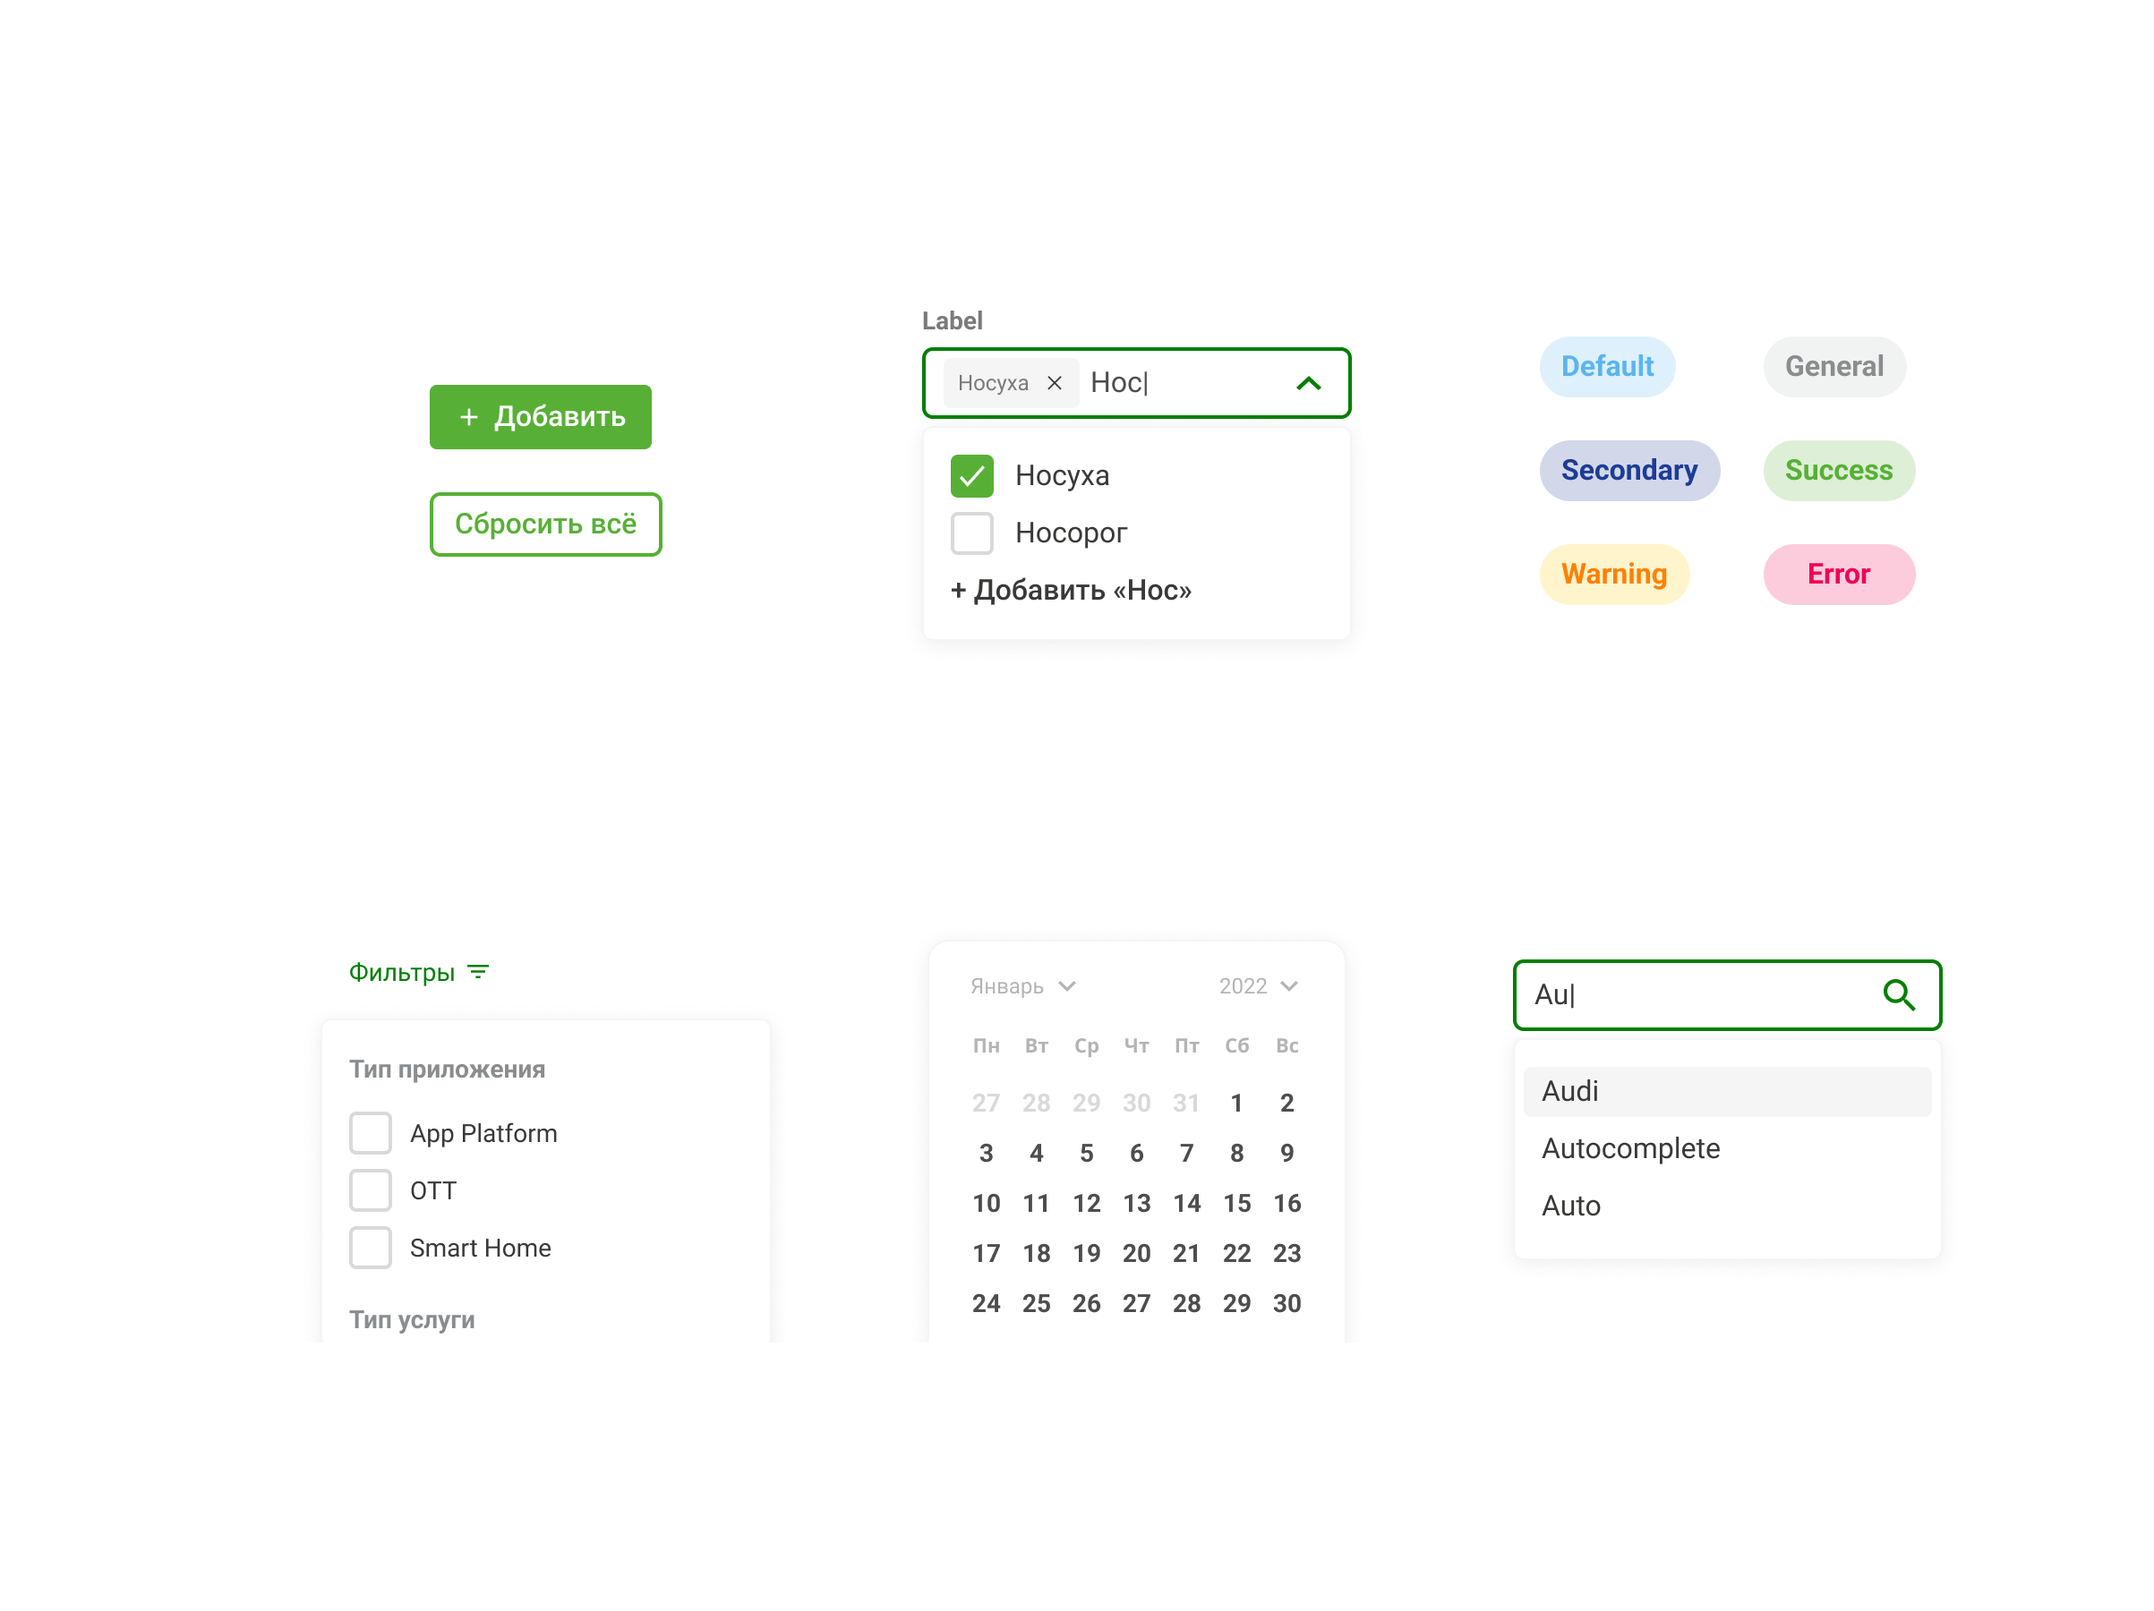
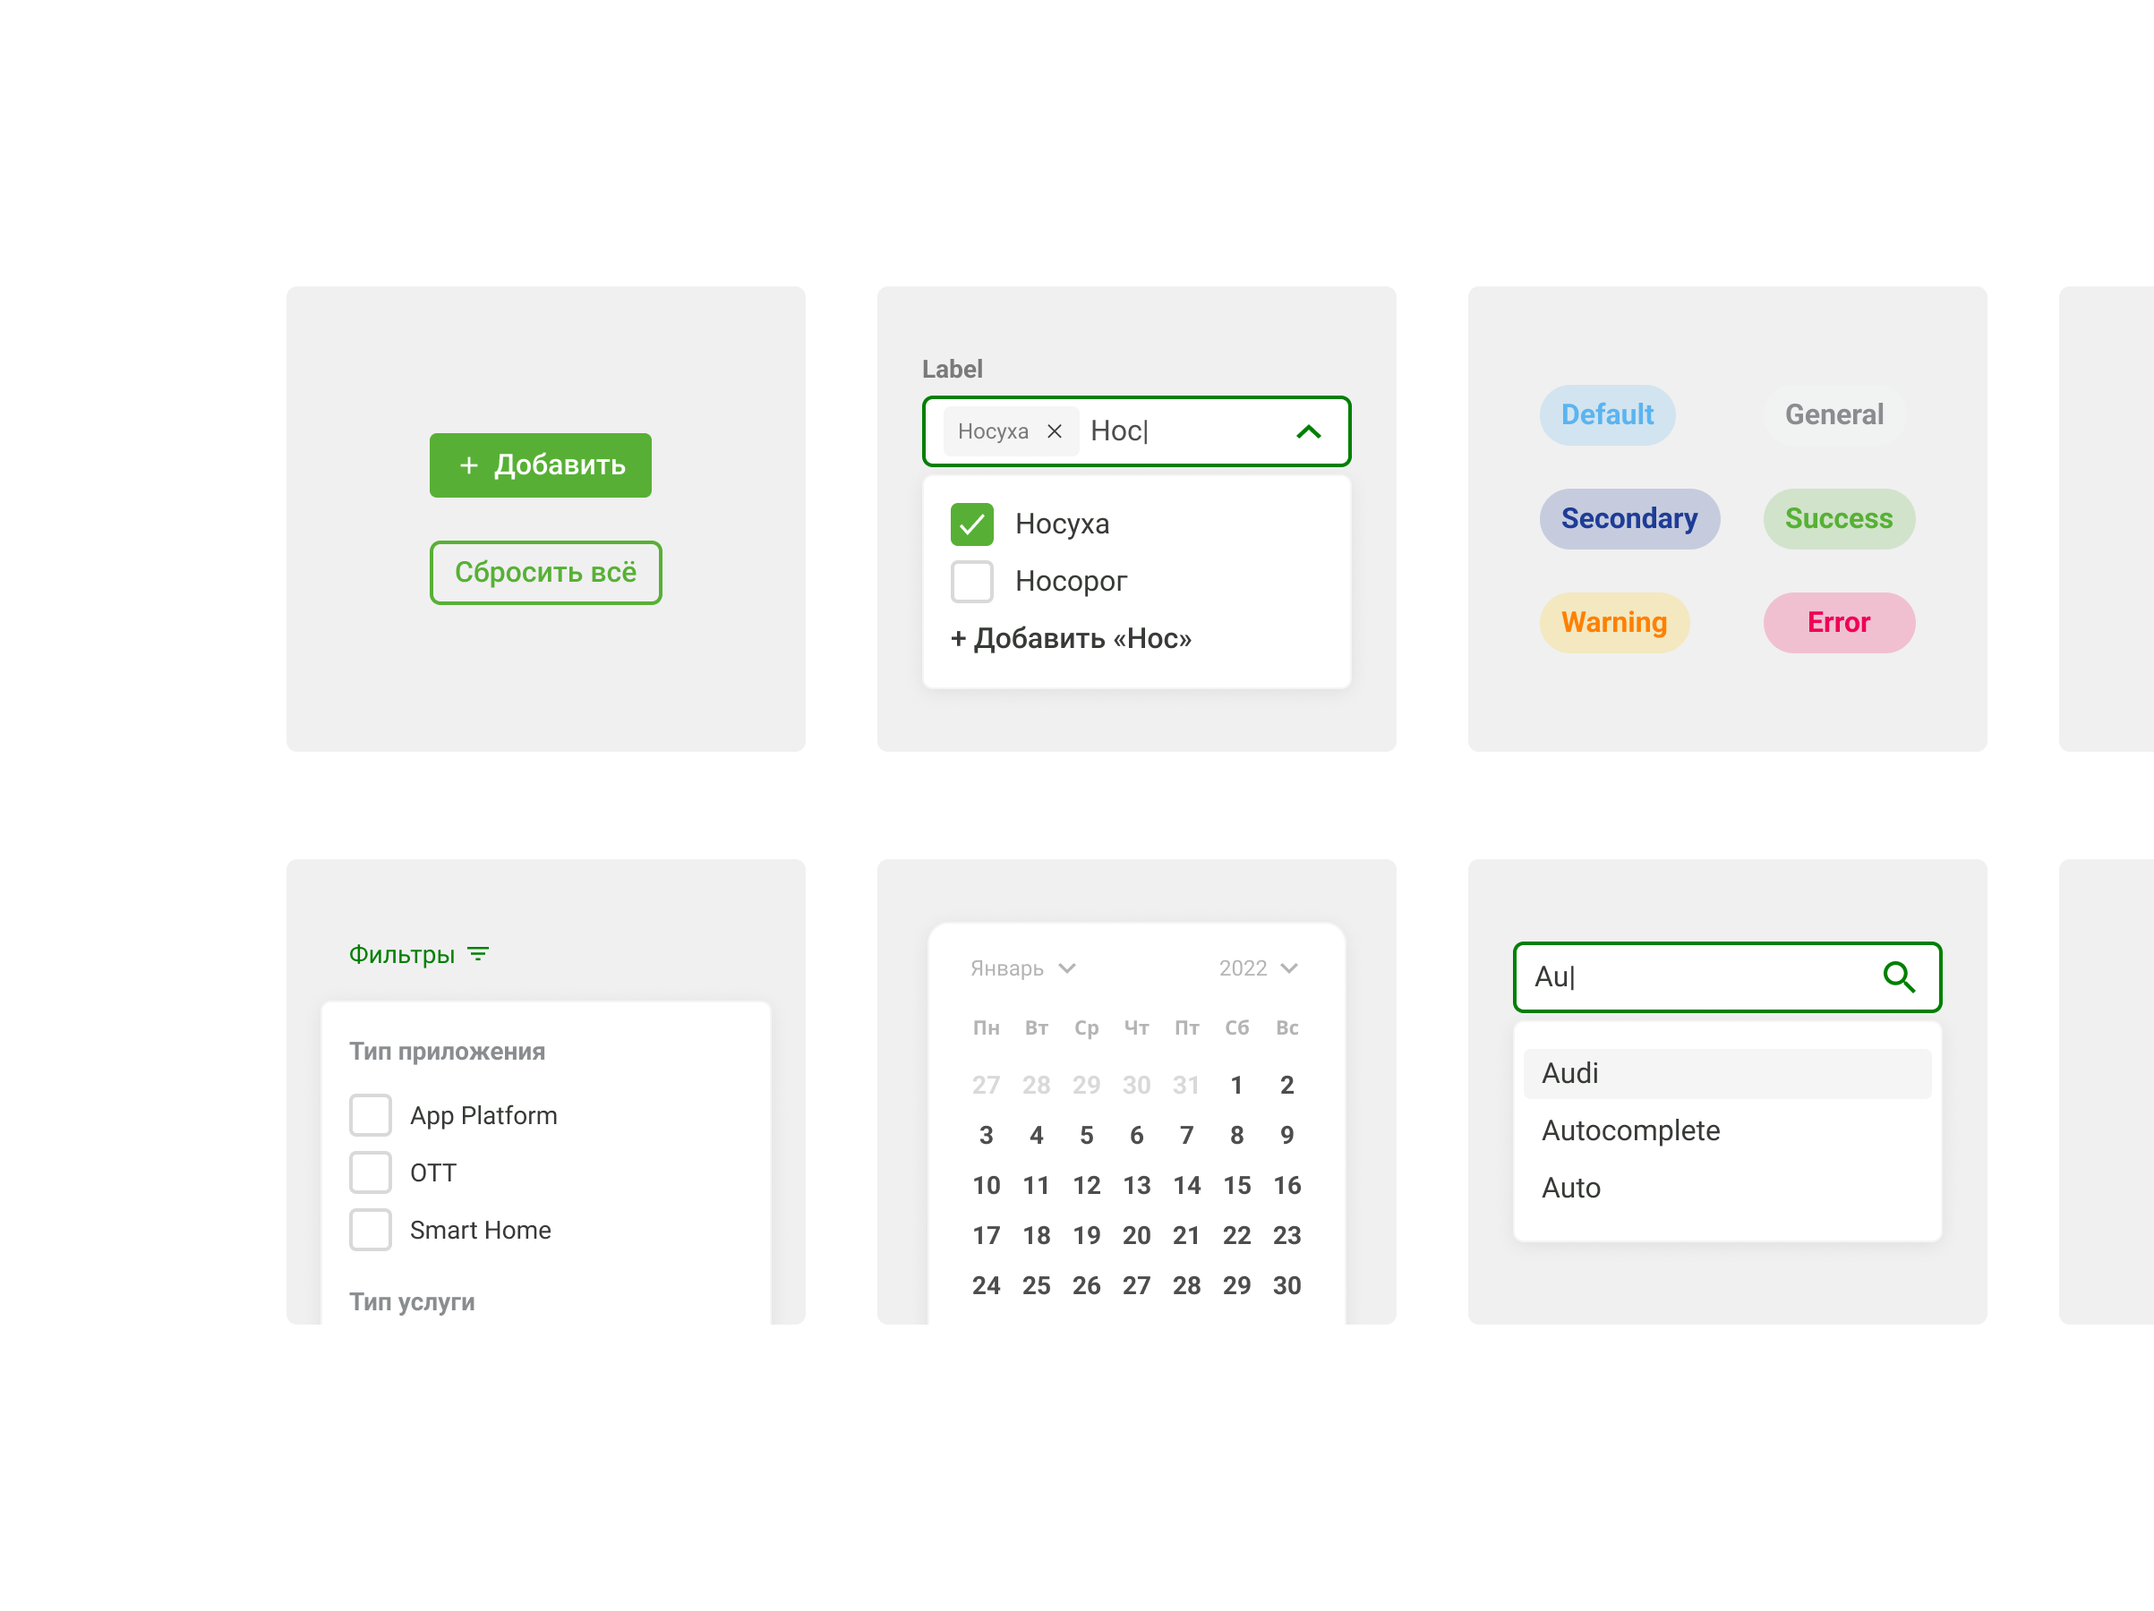
Кейс DREAMPlatform: подложки кадров, новые обложка и ds_hero
- ds_cover и ds_hero заменены новыми макетами (WebP пересобраны)
- обложка кейса: белый фон и внутренняя рамка 2px F0F0F0
- multiselect, multiselect_2, scrambler: подложка F0F0F0; зелёная остаётся у DREPLUS и пары на главной
- комментарий про подложки обновлён во всех страницах (parts/base.css)

diff --git a/design-system.html b/design-system.html
@@ -121,8 +121,7 @@
   --brand-kino-i-tv-field-dark: #0C1B35;
   /* Подложка кадров DREAMPlatform — зелёный #57B035, акцентный цвет самой
      системы (запрос автора 2026-10-15). Сплошной: кадры главной
-     (.frame--green) и страницы кейса — мультиселект, мультиселект 2,
-     DREPLUS (.shot__frame--green). От темы не зависит; в семантику
+     (.frame--green) и DREPLUS на странице кейса (.shot__frame--green). От темы не зависит; в семантику
      не заводить. */
   --brand-design-system-field: #57B035;
 
@@ -1156,11 +1155,15 @@ a:focus-visible{ outline: 2px solid var(--text-primary); outline-offset: 3px; bo
 .tbl--refs > div, .tbl.tbl--refs > div{ grid-template-columns: minmax(0, 1fr); }
 .tbl--refs p b{ font-weight: 400; color: var(--text-primary); }
 
-/* ПОДЛОЖКА КАДРОВ — зелёная #57B035 (токен), сплошная: прозрачное поле
-   в файлах окрашивает плашка. Только у мультиселекта, мультиселекта 2
-   и DREPLUS; остальные кадры кейса, в том числе иконки и типографика
-   (запрос автора 2026-10-15), на серой F0F0F0. */
+/* ПОДЛОЖКА КАДРОВ — сплошная, от темы не зависит: прозрачное поле в
+   файлах окрашивает плашка. Зелёная #57B035 (токен) — только DREPLUS;
+   серая F0F0F0 — мультиселект, мультиселект 2 и scrambler; белая с
+   внутренней рамкой 2px F0F0F0 — обложка (запрос автора 2026-10-16).
+   Остальные кадры кейса на --bg-page. */
 .shot__frame--green{ background: var(--brand-design-system-field); }
+.shot__frame--gray{ background: #F0F0F0; }
+.shot__frame--white{ position: relative; background: #fff; }
+.shot__frame--white::after{ content: ""; position: absolute; inset: 0; border: 2px solid #F0F0F0; border-radius: inherit; pointer-events: none; }
 
 /* Слово с дефисом не рвётся на «дизайн-» / «система» (то же, что .nw у RealDeal). */
 .nw{ white-space: nowrap; }
@@ -1269,7 +1272,7 @@ a:focus-visible{ outline: 2px solid var(--text-primary); outline-offset: 3px; bo
          даёт плашка (--bg-page). Подпись обложке не нужна: она
          показывает, а не доказывает. -->
     <figure class="shot shot--cover">
-      <div class="shot__frame" style="aspect-ratio: 3200 / 1800"><picture><source srcset="/img/ds/960/ds_cover.webp 960w, /img/ds/ds_cover.webp 3200w" sizes="(min-width: 1441px) 1000px, (min-width: 801px) calc(64vw - 40px), 100vw" type="image/webp"><img src="/img/ds/ds_cover.png" width="3200" height="1800" alt="Сетка компонентов библиотеки DREAMPlatform: Button, Combobox, Status, Toast, Filter, Tag, Search, Calendar" fetchpriority="high"></picture></div>
+      <div class="shot__frame shot__frame--white" style="aspect-ratio: 3200 / 1800"><picture><source srcset="/img/ds/960/ds_cover.webp 960w, /img/ds/ds_cover.webp 3200w" sizes="(min-width: 1441px) 1000px, (min-width: 801px) calc(64vw - 40px), 100vw" type="image/webp"><img src="/img/ds/ds_cover.png" width="3200" height="1800" alt="Сетка компонентов библиотеки DREAMPlatform: Button, Combobox, Status, Toast, Filter, Tag, Search, Calendar" fetchpriority="high"></picture></div>
     </figure>
 
     <!-- ── ПРОБЛЕМА И КОНТЕКСТ ── -->
@@ -1369,10 +1372,10 @@ a:focus-visible{ outline: 2px solid var(--text-primary); outline-offset: 3px; bo
       <div class="grp">
         <div class="shots2">
           <figure class="shot">
-            <div class="shot__frame shot__frame--green" style="aspect-ratio: 2800 / 2094"><picture><source srcset="/img/ds/multiselect.webp 2800w" sizes="(min-width: 1441px) 500px, (min-width: 801px) calc(32vw - 25px), (min-width: 621px) 50vw, 100vw" type="image/webp"><img src="/img/ds/multiselect.png" width="2800" height="2094" alt="Multiselect: четыре размера компонента в состояниях Default, Hover, Expanded, Filled и Disabled" loading="lazy" decoding="async"></picture></div>
+            <div class="shot__frame shot__frame--gray" style="aspect-ratio: 2800 / 2094"><picture><source srcset="/img/ds/multiselect.webp 2800w" sizes="(min-width: 1441px) 500px, (min-width: 801px) calc(32vw - 25px), (min-width: 621px) 50vw, 100vw" type="image/webp"><img src="/img/ds/multiselect.png" width="2800" height="2094" alt="Multiselect: четыре размера компонента в состояниях Default, Hover, Expanded, Filled и Disabled" loading="lazy" decoding="async"></picture></div>
           </figure>
           <figure class="shot">
-            <div class="shot__frame shot__frame--green" style="aspect-ratio: 2800 / 2094"><picture><source srcset="/img/ds/multiselect_2.webp 2800w" sizes="(min-width: 1441px) 500px, (min-width: 801px) calc(32vw - 25px), (min-width: 621px) 50vw, 100vw" type="image/webp"><img src="/img/ds/multiselect_2.png" width="2800" height="2094" alt="Multiselect: дополнительные варианты использования — много значений, вспомогательный текст, ошибка" loading="lazy" decoding="async"></picture></div>
+            <div class="shot__frame shot__frame--gray" style="aspect-ratio: 2800 / 2094"><picture><source srcset="/img/ds/multiselect_2.webp 2800w" sizes="(min-width: 1441px) 500px, (min-width: 801px) calc(32vw - 25px), (min-width: 621px) 50vw, 100vw" type="image/webp"><img src="/img/ds/multiselect_2.png" width="2800" height="2094" alt="Multiselect: дополнительные варианты использования — много значений, вспомогательный текст, ошибка" loading="lazy" decoding="async"></picture></div>
           </figure>
         </div>
         <figure class="shot">
@@ -1441,7 +1444,7 @@ a:focus-visible{ outline: 2px solid var(--text-primary); outline-offset: 3px; bo
       <div class="grp">
         <div class="shots-lead">
           <figure class="shot">
-            <div class="shot__frame" style="aspect-ratio: 3200 / 1800"><picture><source srcset="/img/ds/960/scrambler.webp 960w, /img/ds/scrambler.webp 3200w" sizes="(min-width: 1441px) 1000px, (min-width: 801px) calc(64vw - 40px), 100vw" type="image/webp"><img src="/img/ds/scrambler.png" width="3200" height="1800" alt="DREAMPlatform Scrambler в интерфейсе платформы" loading="lazy" decoding="async"></picture></div>
+            <div class="shot__frame shot__frame--gray" style="aspect-ratio: 3200 / 1800"><picture><source srcset="/img/ds/960/scrambler.webp 960w, /img/ds/scrambler.webp 3200w" sizes="(min-width: 1441px) 1000px, (min-width: 801px) calc(64vw - 40px), 100vw" type="image/webp"><img src="/img/ds/scrambler.png" width="3200" height="1800" alt="DREAMPlatform Scrambler в интерфейсе платформы" loading="lazy" decoding="async"></picture></div>
             <figcaption class="shot__cap">DREAMPlatform Scrambler</figcaption>
           </figure>
           <figure class="shot">

diff --git a/index.html b/index.html
@@ -109,8 +109,7 @@
   --brand-kino-i-tv-field-dark: #0C1B35;
   /* Подложка кадров DREAMPlatform — зелёный #57B035, акцентный цвет самой
      системы (запрос автора 2026-10-15). Сплошной: кадры главной
-     (.frame--green) и страницы кейса — мультиселект, мультиселект 2,
-     DREPLUS (.shot__frame--green). От темы не зависит; в семантику
+     (.frame--green) и DREPLUS на странице кейса (.shot__frame--green). От темы не зависит; в семантику
      не заводить. */
   --brand-design-system-field: #57B035;
 

diff --git a/kino-i-tv.html b/kino-i-tv.html
@@ -120,8 +120,7 @@
   --brand-kino-i-tv-field-dark: #0C1B35;
   /* Подложка кадров DREAMPlatform — зелёный #57B035, акцентный цвет самой
      системы (запрос автора 2026-10-15). Сплошной: кадры главной
-     (.frame--green) и страницы кейса — мультиселект, мультиселект 2,
-     DREPLUS (.shot__frame--green). От темы не зависит; в семантику
+     (.frame--green) и DREPLUS на странице кейса (.shot__frame--green). От темы не зависит; в семантику
      не заводить. */
   --brand-design-system-field: #57B035;
 

diff --git a/realdeal.html b/realdeal.html
@@ -129,8 +129,7 @@
   --brand-kino-i-tv-field-dark: #0C1B35;
   /* Подложка кадров DREAMPlatform — зелёный #57B035, акцентный цвет самой
      системы (запрос автора 2026-10-15). Сплошной: кадры главной
-     (.frame--green) и страницы кейса — мультиселект, мультиселект 2,
-     DREPLUS (.shot__frame--green). От темы не зависит; в семантику
+     (.frame--green) и DREPLUS на странице кейса (.shot__frame--green). От темы не зависит; в семантику
      не заводить. */
   --brand-design-system-field: #57B035;
 

diff --git a/parts/base.css b/parts/base.css
@@ -78,8 +78,7 @@
   --brand-kino-i-tv-field-dark: #0C1B35;
   /* Подложка кадров DREAMPlatform — зелёный #57B035, акцентный цвет самой
      системы (запрос автора 2026-10-15). Сплошной: кадры главной
-     (.frame--green) и страницы кейса — мультиселект, мультиселект 2,
-     DREPLUS (.shot__frame--green). От темы не зависит; в семантику
+     (.frame--green) и DREPLUS на странице кейса (.shot__frame--green). От темы не зависит; в семантику
      не заводить. */
   --brand-design-system-field: #57B035;
 
